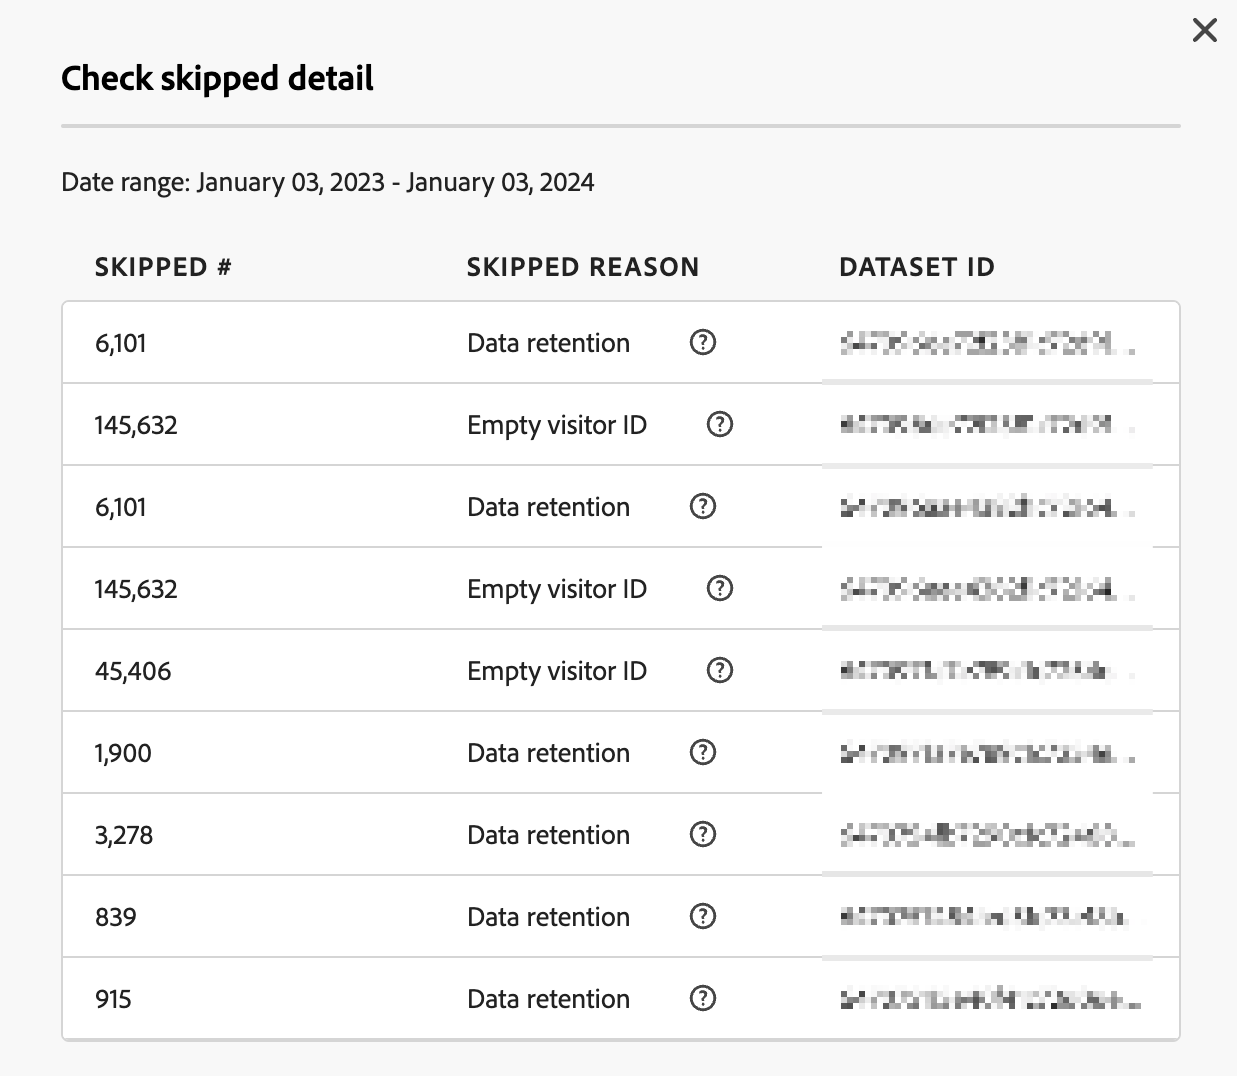
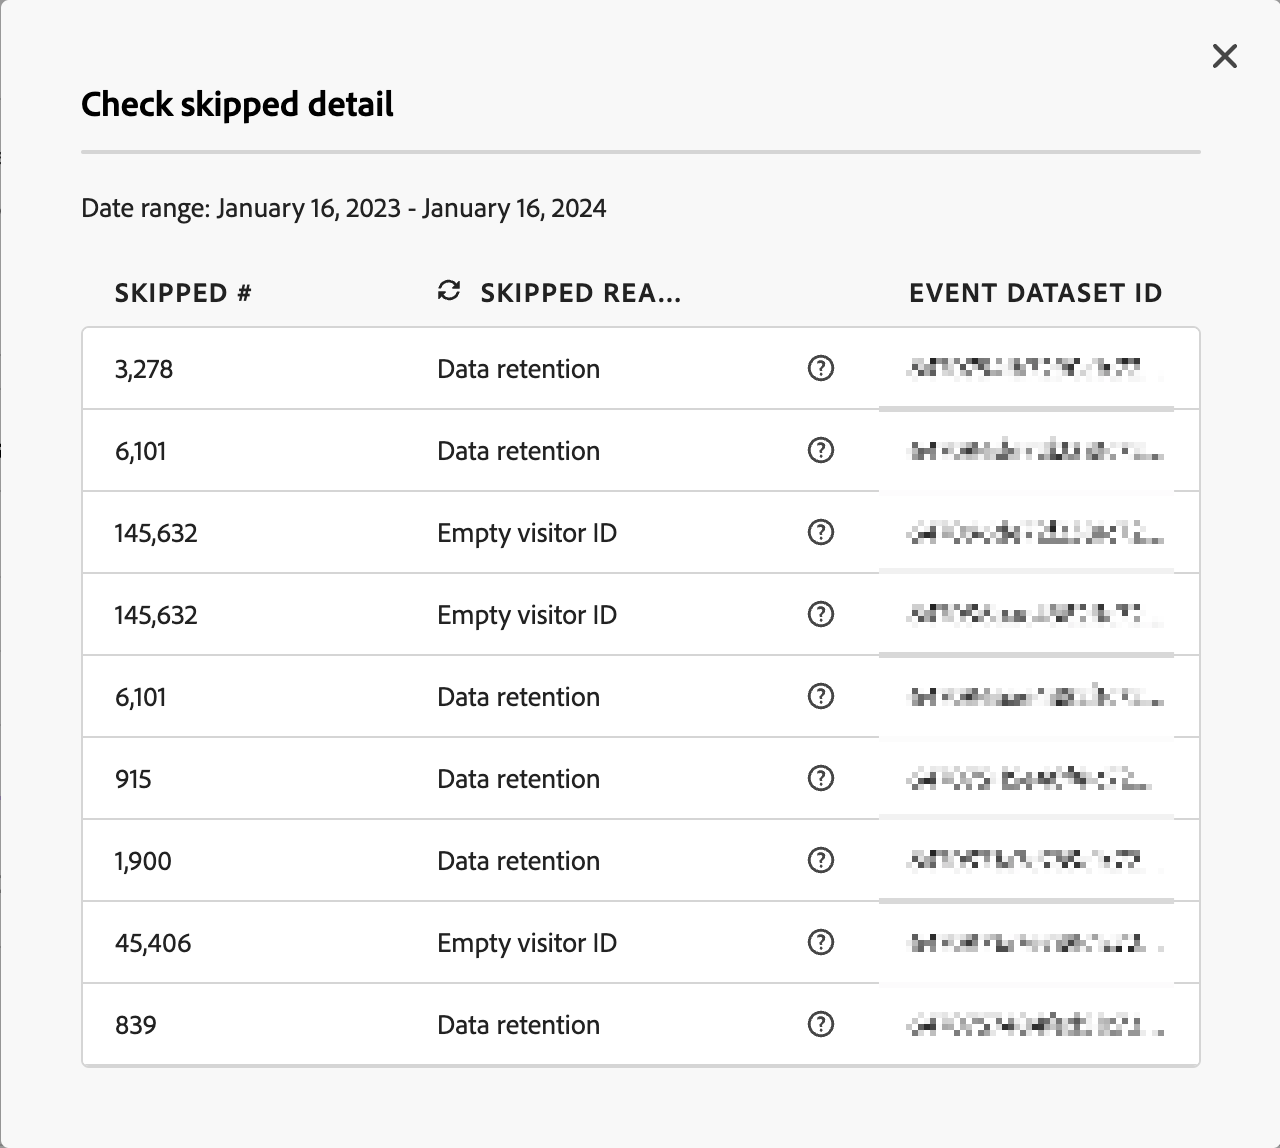
More updates

diff --git a/help/connections/manage-connections.md b/help/connections/manage-connections.md
@@ -128,9 +128,9 @@ The Connections details screen provides a detailed view of the status of a conne
 | --- | --- |
 | ![Edit](https://spectrum.adobe.com/static/icons/workflow_18/Smock_Edit_18_N.svg) [!UICONTROL Edit Connection] | To edit the details of a connection, select ![Edit](https://spectrum.adobe.com/static/icons/workflow_18/Smock_Edit_18_N.svg) **[!UICONTROL Edit Connection]** . See [Create or edit a connection](create-connection.md) for more information. |
 | Dataset selector | Lets you pick one or all datasets in the connection. You cannot multi-select datasets. Defaults to [!UICONTROL All datasets]. |
-| Calendar/Date Range selector | The date range indicates when you added data to the connection. All standard calendar presets are included. You can customize the date range, but no custom date ranges show up in the drop-down list. |
+| Date range selector | Edit start and/or end date or select ![Calendar](https://spectrum.adobe.com/static/icons/workflow_18/Smock_Calendar_18_N.svg) to open the data range selector. In the date ranage selector, select a date range by using one of the predefined periods (for example **[!UICONTROL Last 6 months]**) or use the calendar to select start and end date. Select **[!UICONTROL Apply]** to apply the new data range.|
 | [!UICONTROL Records of event data available] | Represents the total number of event dataset rows available for reporting, **for the entire connection**. This count is independent of any calendar settings. The count changes if you select a dataset from the dataset selector or by selecting a dataset in the table. Once data is added, there is a latency of 1-2 hours to get the data to appear in reporting. |
-| [!UICONTROL Metrics] | Summarizes the event records added/skipped/deleted, and the number of batches added, **for the dataset and date range you have selected**.<p>Select **[!UICONTROL Check detail]** to show the **[!UICONTROL Check skipped detail]** popup, listing for all event datasets or selected dataset the number of skipped records and the reason.<p><img src="./assets/skipped-records.png" width="70%"/> <p> |
+| [!UICONTROL Metrics] | Summarizes the event records added/skipped/deleted, and the number of batches added, **for the dataset and date range you have selected**.<p>Select **[!UICONTROL Check detail]** to show the **[!UICONTROL Check skipped detail]** popup, listing for all event datasets or selected dataset the number of skipped records and the reason.<p><img src="./assets/skipped-records.png" width="70%"/><p>Select ![Info](https://spectrum.adobe.com/static/icons/workflow_18/Smock_InfoOutline_18_N.svg) popup with more information. For some skipped reasons, like [!UICONTROL Empty visitor ID], the popup displays Sample PSQL for EQS (Experience Platform for Query Service) you can use in [Query Service](https://experienceleague.adobe.com/docs/experience-platform/query/home.html?lang=en) to query for the skipped records in the dataset. Select ![Copy](https://spectrum.adobe.com/static/icons/workflow_18/Smock_Copy_18_N.svg) **[!UICONTROL Copy sample PSQL for EQS]** to copy the SQL. |
 | [!UICONTROL Records added] | Indicates how many rows were added in the selected time period, **for the dataset and date range you have selected**. Updated every 10 minutes.||
 | [!UICONTROL Records skipped] | Indicates how many rows were skipped in the selected time period, **for the dataset and date range you have selected**. Reasons for skipping records include: missing timestamps, missing or invalid person ID, and so forth. Updated every 10 minutes.<p>Invalid person IDs (such as "undefined", or "00000000", or any combination of numbers and letters in a [!UICONTROL Person ID] that appears in an event more than 1 million times in a given month) cannot be attributed to any specific user or person. They cannot be ingested into the system and result in error-prone ingestion and reporting. To fix invalid person IDs, you have 3 options:<ul><li>Use [Stitching](/help/stitching/overview.md) to populate the undefined or all-zero user IDs with valid user IDs.</li><li>Blank out the user ID, which will then be skipped during ingestion (preferable to invalid or all-zero user IDs).</li><li>Fix any invalid user IDs in your system before ingesting the data.</li></ul> |
 | [!UICONTROL Records] deleted | Indicates how many rows were deleted in the selected time period, **for the dataset and date range you have selected**. Someone might have deleted a dataset in Experience Platform, for example. Updated every 10 minutes. |
